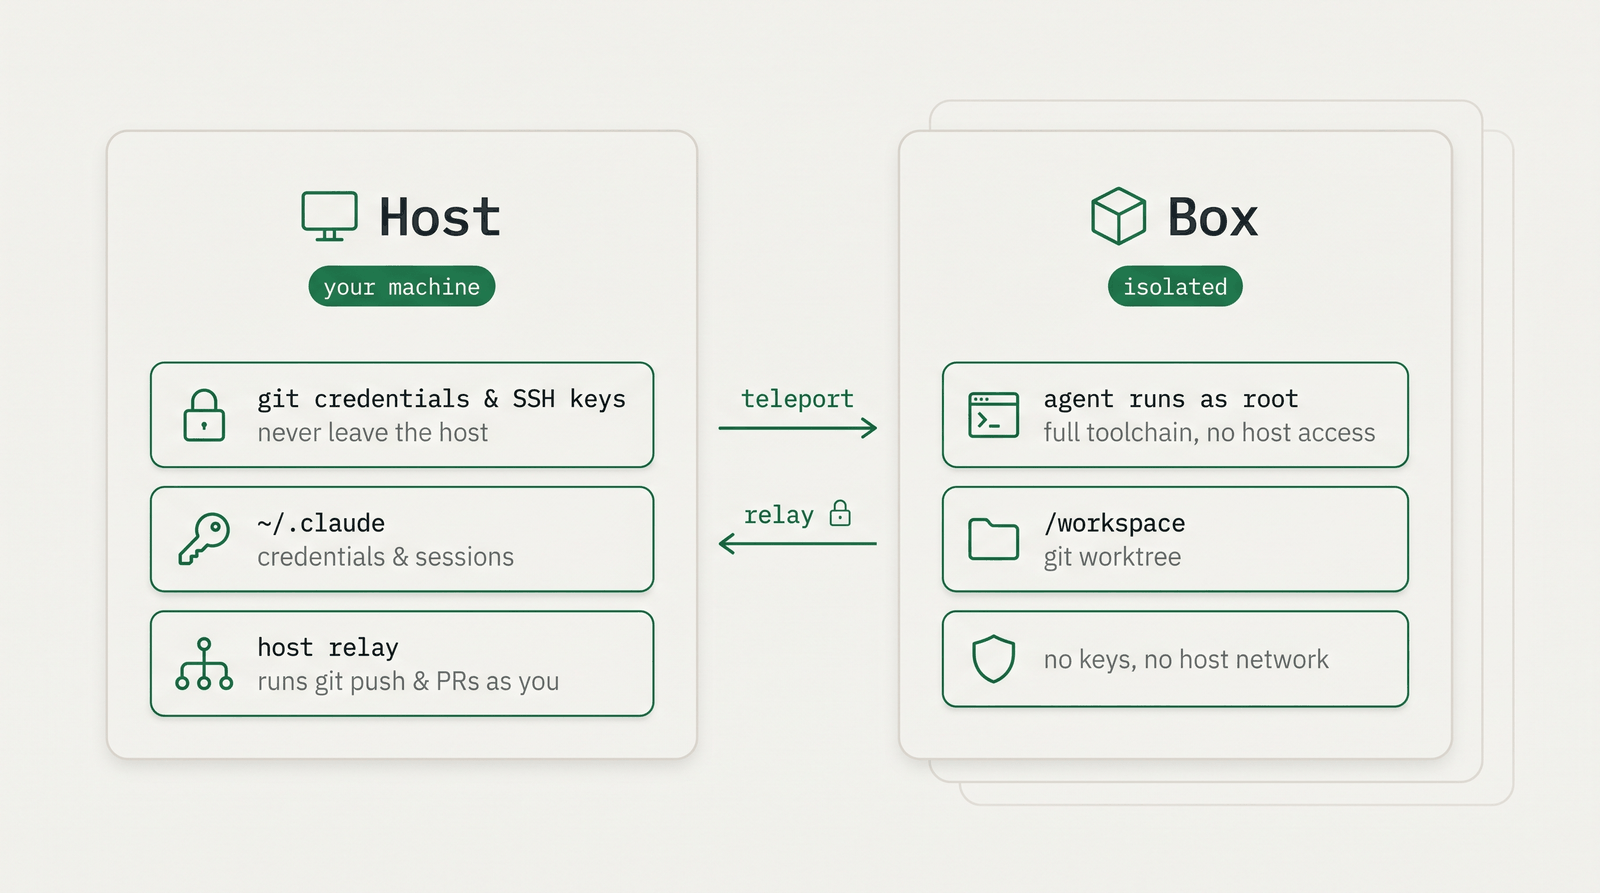
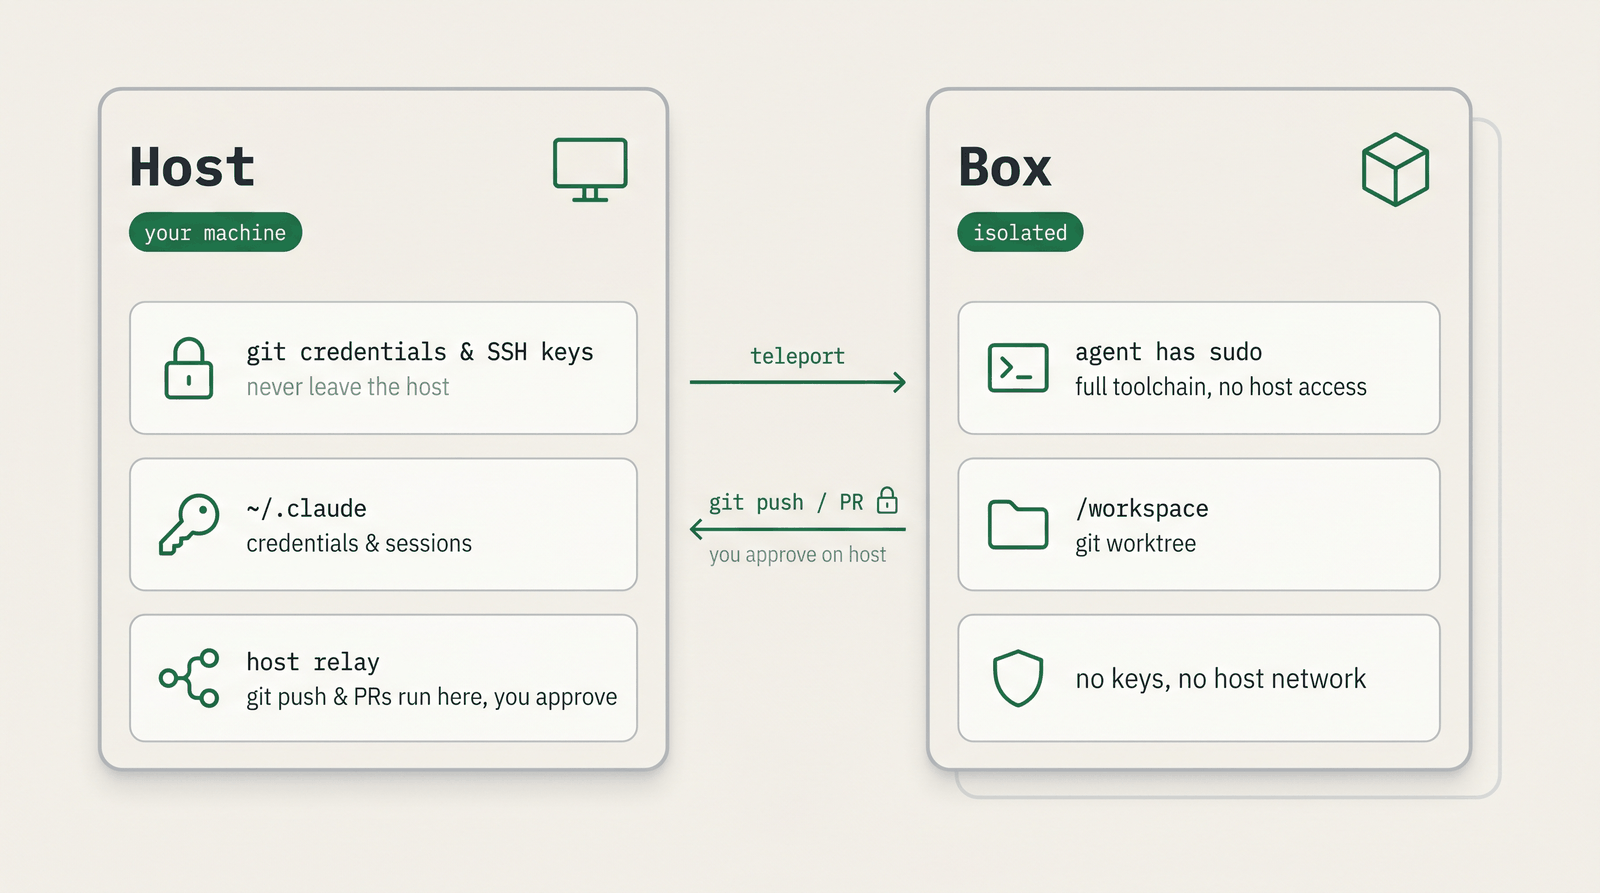
docs(web): core-concepts — agent has sudo (not root) + emphasize git approval
Regenerate the diagram: 'agent has sudo' instead of 'runs as root', and make the
host-approval explicit (relay card 'you approve' + bottom arrow 'git push / PR'
with 'you approve on host'). Update the page text to match (sudo, and every push/
PR pauses for explicit host approval, defaults to no). Save the verbatim
nano-banana-pro prompt + command in images.md (no input image used).

diff --git a/apps/web/images.md b/apps/web/images.md
@@ -410,9 +410,41 @@ before committing (2K output is ~3.5MB; resize to ~1600px wide + `Image.quantize
 `public/home.html` is the canonical style reference.
 
 - **core-concepts** — DONE (`/diagrams/core-concepts.png`). Host panel (git/SSH
-  creds + ~/.claude + host relay) ── teleport→ / ←relay 🔒 ── Box panel (agent as
-  root, /workspace, no keys/no host net), with faint stacked outlines behind Box
-  for "one per agent run".
+  creds + ~/.claude + host relay) ── teleport→ / ←git push/PR 🔒 ── Box panel
+  (**agent has sudo**, /workspace, no keys/no host net), faint stacked outlines
+  behind Box for "one per agent run". Note the agent runs with **sudo, not root**,
+  and the diagram + arrow both state **git push / PR needs your approval on host**.
+
+  **No `--input-image`** (describing the style in the prompt beat using the
+  home-page diagram as a ref — that over-copied its labels). The human style
+  reference is `public/home.html`'s interactive diagram. Generated at 2K, then
+  resized to 1600px + `Image.quantize(256)` → ~960KB. **Exact command + verbatim
+  prompt used:**
+
+  ```bash
+  uv run ~/.claude/skills/nano-banana-pro/scripts/generate_image.py \
+    --prompt "$(cat <<'PROMPT'
+  A clean, flat technical architecture diagram in a minimal developer-docs style. Warm light paper background (#f4f3ee). Two large rounded-rectangle panels side by side with thin 1.5px soft-grey borders and very subtle shadows. Restrained palette: forest-green (#1f7a4d) for icons, labels and arrows; dark slate (#1b1f23) for headings; muted grey (#8a9098) for secondary text. Simple thin line icons, monospace IBM-Plex-style type, generous whitespace. No gradients, no 3D, no photorealism, no clutter. Landscape 16:9.
+
+  LEFT panel titled 'Host' with a small monitor line-icon and a small rounded green pill reading 'your machine'. Inside, three stacked sub-cards, each a thin line icon plus two short text lines:
+  - padlock icon, line 1: 'git credentials & SSH keys', line 2: 'never leave the host'
+  - key icon, line 1: '~/.claude', line 2: 'credentials & sessions'
+  - hub icon, line 1: 'host relay', line 2: 'git push & PRs run here, you approve'
+
+  RIGHT panel titled 'Box' with a small cube line-icon and a small rounded green pill reading 'isolated'. Behind this panel draw two faint duplicate rounded-rectangle outlines, offset down and to the right, to suggest 'one box per agent run'. Inside the front panel, three stacked sub-cards:
+  - terminal icon, line 1: 'agent has sudo', line 2: 'full toolchain, no host access'
+  - folder icon, line 1: '/workspace', line 2: 'git worktree'
+  - shield icon, line 1: 'no keys, no host network'
+
+  BETWEEN the two panels, two short horizontal arrows stacked vertically in the gap:
+  - TOP arrow pointing RIGHT (Host to Box), green, labeled 'teleport'
+  - BOTTOM arrow pointing LEFT (Box to Host), green, labeled 'git push / PR' with a small padlock icon, and directly beneath it smaller muted text reading 'you approve on host'
+
+  All text must be crisp, sharp and correctly spelled. Balanced composition with lots of breathing room.
+  PROMPT
+  )" \
+    --filename /tmp/core-concepts.png --resolution 2K     # GEMINI_API_KEY in env
+  ```
 - **configuration** — config layer precedence: CLI > workspace > project > global > committed defaults > built-in.
 - **services-and-tasks** — the `needs` DAG: install → migrate; db runs in parallel; web waits on both.
 - **sync-and-git** — commits land in the shared host repo instantly; only network ops route through the relay.